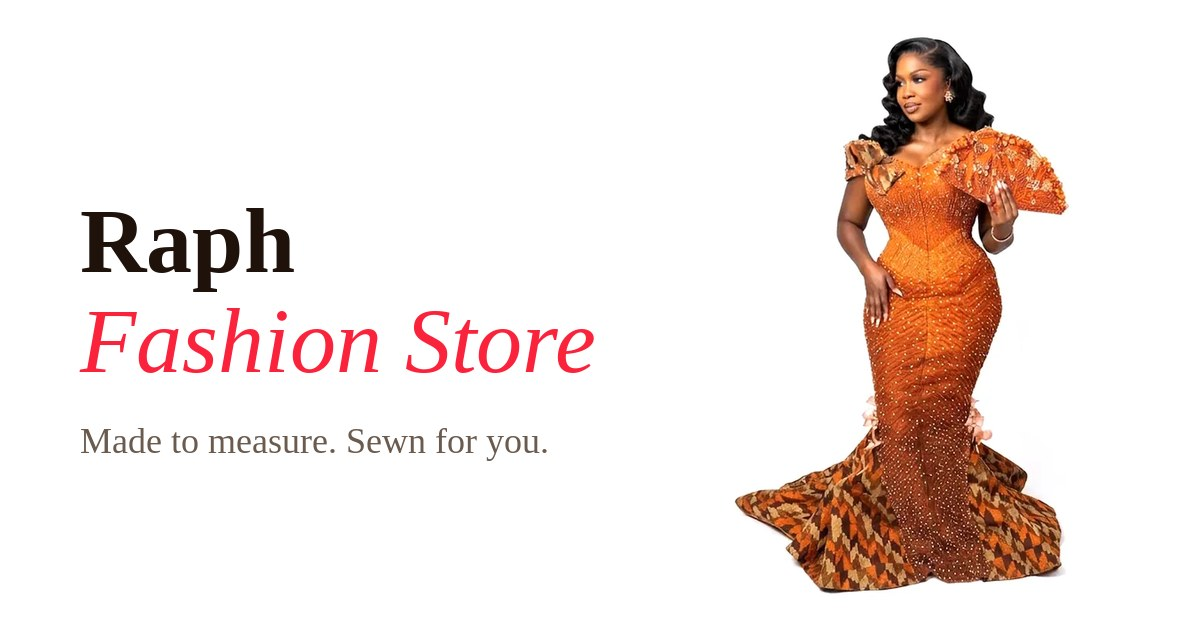
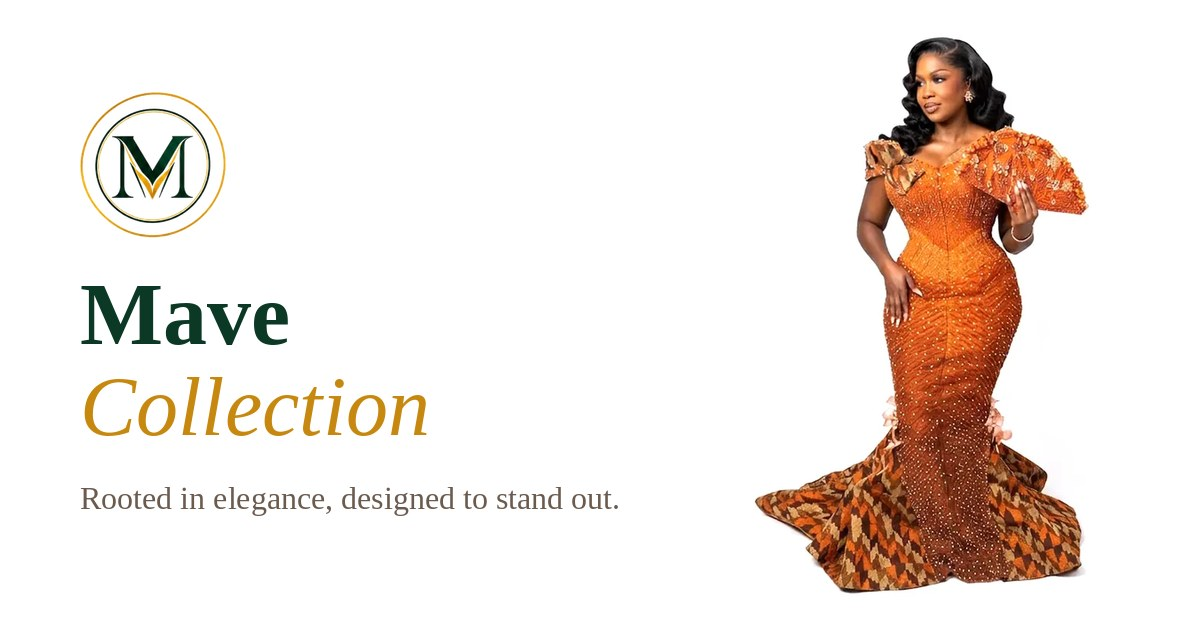
Rebrand to Mave Collection
- name, title, share preview and README now say Mave Collection, with the
  tagline 'Rooted in elegance, designed to stand out'
- logo from the business flyer in the header, footer and as the favicon
- primary accent is the Mave green (#0C3925); gold (#C7880F) is used only
  for the logo, 'Collection' and the hero's italic word
- footer lists Call/WhatsApp, Snapchat and the Danfa, Accra location
- order references start with MAVE-

Claude-Session: https://claude.ai/code/session_012gieGybiP1uTPRKhRSaKYA

Changed region(s): [[0.6167, 0.0603, 0.925, 0.9651], [0.0617, 0.1206, 0.4933, 0.7238], [0.0617, 0.7841, 0.5242, 0.8143]]

diff --git a/index.html b/index.html
@@ -3,14 +3,15 @@
 <head>
   <meta charset="utf-8">
   <meta name="viewport" content="width=device-width, initial-scale=1, viewport-fit=cover">
-  <title>Raph Fashion Store</title>
-  <meta name="description" content="Made-to-measure gowns, sewn for you. Choose a design, send your measurements, and we stitch it to fit.">
+  <title>Mave Collection</title>
+  <meta name="description" content="Mave Collection, Accra. Rooted in elegance, designed to stand out. Ready-made and made-to-measure gowns.">
   <meta name="theme-color" content="#ffffff">
-  <link rel="icon" href="favicon.svg" type="image/svg+xml">
+  <link rel="icon" href="assets/brand/icon-64.png" type="image/png">
+  <link rel="apple-touch-icon" href="assets/brand/icon-180.png">
   <!-- og:image / twitter:image need the full URL (https://your-domain/assets/share.jpg) once the domain is live -->
   <meta property="og:type" content="website">
-  <meta property="og:title" content="Raph Fashion Store">
-  <meta property="og:description" content="Made-to-measure gowns, sewn for you.">
+  <meta property="og:title" content="Mave Collection">
+  <meta property="og:description" content="Rooted in elegance, designed to stand out.">
   <meta property="og:image" content="assets/share.jpg">
   <meta property="og:image:width" content="1200">
   <meta property="og:image:height" content="630">
@@ -26,7 +27,7 @@
 <body>
 
   <header class="topbar">
-    <a class="brand" href="#top">Raph <span>Fashion Store</span></a>
+    <a class="brand" href="#top" aria-label="Mave Collection, home"><img src="assets/brand/mave-logo.png" alt="" width="40" height="40"><span class="brand__name">Mave <span>Collection</span></span></a>
     <div class="topbar__actions">
       <a class="topbar__cta" href="#shop">Shop</a>
       <button class="topbar__cart" id="cartBtn" type="button" aria-label="Open cart">
@@ -80,7 +81,14 @@
   </main>
 
   <footer class="footer">
-    <p><strong>Raph Fashion Store</strong> &middot; Made to measure, Accra</p>
+    <img class="footer__logo" src="assets/brand/mave-logo.png" alt="Mave Collection" width="64" height="64">
+    <p class="footer__tag">Rooted in elegance, designed to stand out.</p>
+    <ul class="footer__contact">
+      <li><span>Call / WhatsApp</span><a href="tel:+233541791986">054 179 1986</a> &middot; <a href="tel:+233592475432">059 247 5432</a></li>
+      <li><span>WhatsApp</span><a href="https://wa.me/233541791986" target="_blank" rel="noopener">Chat with us</a></li>
+      <li><span>Snapchat</span><a href="https://www.snapchat.com/add/hornam2022" target="_blank" rel="noopener">hornam2022</a></li>
+      <li><span>Location</span>Danfa, Accra</li>
+    </ul>
     <p class="footer__credit">Developed by <a href="https://www.ecstasytechnologies.com" target="_blank" rel="noopener">Ecstasy Technologies</a></p>
   </footer>
 

diff --git a/css/style.css b/css/style.css
@@ -2,9 +2,10 @@
   --paper: #ffffff;
   --ink: #1f120b;
   --muted: #6b5a4e;
-  --ember: #fb233b;       /* accent: text and small details (Apple Music red) */
-  --glow: #fb233b;        /* accent: buttons */
-  --glow-dark: #d91c33;   /* accent: button hover */
+  --ember: #0c3925;       /* primary accent: text and small details (Mave green) */
+  --glow: #0c3925;        /* primary accent: buttons */
+  --glow-dark: #08301e;   /* primary accent: button hover */
+  --gold: #c7880f;        /* secondary accent, used sparingly: logo, "Collection", the hero's italic word */
   --line: rgba(31, 18, 11, 0.14);
   --serif: "Cormorant Garamond", Georgia, serif;
   --sans: "Inter", system-ui, -apple-system, "Segoe UI", sans-serif;
@@ -30,8 +31,9 @@ a { color: inherit; }
   pointer-events: none;
 }
 .topbar > * { pointer-events: auto; }
-.brand { font-family: var(--serif); font-weight: 600; font-size: 1.35rem; letter-spacing: 0.02em; text-decoration: none; }
-.brand span { font-weight: 400; font-style: italic; color: var(--ember); }
+.brand { display: inline-flex; align-items: center; gap: 10px; font-family: var(--serif); font-weight: 600; font-size: 1.35rem; letter-spacing: 0.02em; text-decoration: none; color: var(--ember); }
+.brand img { width: 40px; height: 40px; display: block; }
+.brand__name span { font-weight: 500; font-style: italic; color: var(--gold); }
 .topbar__actions { display: flex; align-items: center; gap: 10px; }
 .topbar__cta {
   font-size: 0.72rem; font-weight: 500; letter-spacing: 0.18em; text-transform: uppercase; text-decoration: none;
@@ -60,7 +62,8 @@ a { color: inherit; }
 .eyebrow { margin: 0 0 14px; font-size: 0.7rem; font-weight: 500; letter-spacing: 0.28em; text-transform: uppercase; color: var(--ember); }
 h1, h2 { font-family: var(--serif); font-weight: 500; line-height: 1.02; margin: 0; }
 h1 { font-size: clamp(2.8rem, 8.5vw, 6.2rem); }
-h1 em, h2 em { font-style: italic; color: var(--ember); }
+h1 em { font-style: italic; color: var(--gold); }
+h2 em { font-style: italic; color: var(--ember); }
 .lede { color: var(--muted); max-width: 30ch; margin: 18px 0 0; font-size: 1rem; }
 
 .specs { margin: 0; display: grid; gap: 14px; }
@@ -71,7 +74,7 @@ h1 em, h2 em { font-style: italic; color: var(--ember); }
   display: inline-block; padding: 16px 34px; border-radius: 999px; text-decoration: none;
   background: var(--glow); color: #fff; font-weight: 500; font-size: 0.82rem;
   letter-spacing: 0.16em; text-transform: uppercase;
-  box-shadow: 0 10px 30px rgba(251, 35, 59, 0.3);
+  box-shadow: 0 10px 30px rgba(12, 57, 37, 0.25);
   transition: transform 0.2s, background 0.2s;
 }
 .btn:hover { transform: translateY(-2px); background: var(--glow-dark); }

diff --git a/css/shop.css b/css/shop.css
@@ -32,9 +32,17 @@
 .btn:disabled { opacity: 0.6; cursor: progress; }
 button.btn { font-family: inherit; cursor: pointer; border: 0; }
 
-.footer { padding: 36px var(--gutter) calc(36px + env(safe-area-inset-bottom)); text-align: center; color: var(--muted); font-size: 0.85rem; border-top: 1px solid var(--line); }
+.footer { padding: 48px var(--gutter) calc(36px + env(safe-area-inset-bottom)); text-align: center; color: var(--muted); font-size: 0.85rem; border-top: 1px solid var(--line); }
 .footer p { margin: 0; }
-.footer__credit { margin-top: 6px !important; font-size: 0.78rem; }
+.footer__logo { width: 64px; height: 64px; display: block; margin: 0 auto 10px; }
+.footer__tag { font-family: var(--serif); font-size: 1.15rem; font-style: italic; color: var(--ember); margin-bottom: 22px !important; }
+.footer__contact { list-style: none; margin: 0 auto 26px; padding: 0; display: grid; gap: 10px; max-width: 900px; }
+.footer__contact li { color: var(--ink); }
+.footer__contact span { display: block; font-size: 0.68rem; letter-spacing: 0.2em; text-transform: uppercase; color: var(--muted); margin-bottom: 2px; }
+.footer__contact a { color: var(--ember); font-weight: 500; text-decoration: none; }
+.footer__contact a:hover { text-decoration: underline; }
+@media (min-width: 820px) { .footer__contact { grid-template-columns: repeat(4, 1fr); } }
+.footer__credit { font-size: 0.78rem; }
 .footer__credit a { color: var(--ink); text-decoration: none; font-weight: 500; }
 .footer__credit a:hover { color: var(--ember); }
 

diff --git a/js/shop.js b/js/shop.js
@@ -295,7 +295,7 @@
     }
   }
 
-  const ref = () => 'RPH-' + Date.now().toString(36).slice(-5).toUpperCase() + Math.random().toString(36).slice(2, 4).toUpperCase();
+  const ref = () => 'MAVE-' + Date.now().toString(36).slice(-5).toUpperCase() + Math.random().toString(36).slice(2, 4).toUpperCase();
 
   async function submit() {
     const order = Object.assign({ reference: ref(), placedAt: new Date().toISOString() }, collect());
@@ -312,7 +312,7 @@
     $('#doneMsg').textContent = `Thank you, ${order.customer.name.split(' ')[0]}. We'll call you on ${order.customer.phone} to confirm.`;
     const dev = $('#devNote');
     dev.hidden = !!config.orderEndpoint;
-    dev.textContent = 'Test mode: saved on this device only, not sent to Raph.';
+    dev.textContent = 'Test mode: saved on this device only, not sent to Mave Collection.';
     showStep('done');
   }
 

diff --git a/js/cart.js b/js/cart.js
@@ -102,7 +102,7 @@
         <h4>Thank you</h4>
         <p class="done__ref">Reference <strong>${R.esc(doneInfo.ref)}</strong></p>
         <p>${R.esc(doneInfo.msg)}</p>
-        ${config.orderEndpoint ? '' : '<p class="devnote">Test mode: saved on this device only, not sent to Raph.</p>'}
+        ${config.orderEndpoint ? '' : '<p class="devnote">Test mode: saved on this device only, not sent to Mave Collection.</p>'}
       </div>`;
     foot.innerHTML = '<button type="button" class="btn" data-close>Back to the shop</button>';
   }

diff --git a/README.md b/README.md
@@ -1,4 +1,6 @@
-# Raph Fashion Store
+# Mave Collection
+
+_Rooted in elegance, designed to stand out._ Danfa, Accra.
 
 Made-to-measure gowns, sewn to order. A single scrolling storefront where customers pick a design, send their measurements, and pay online (Ghana: mobile money / card, GHS).
 
